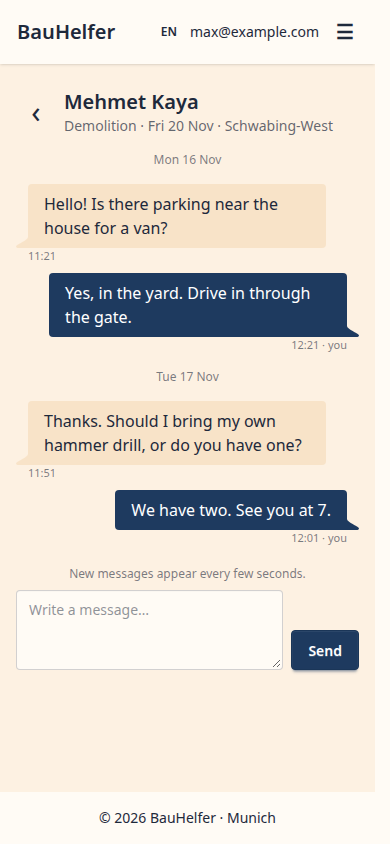
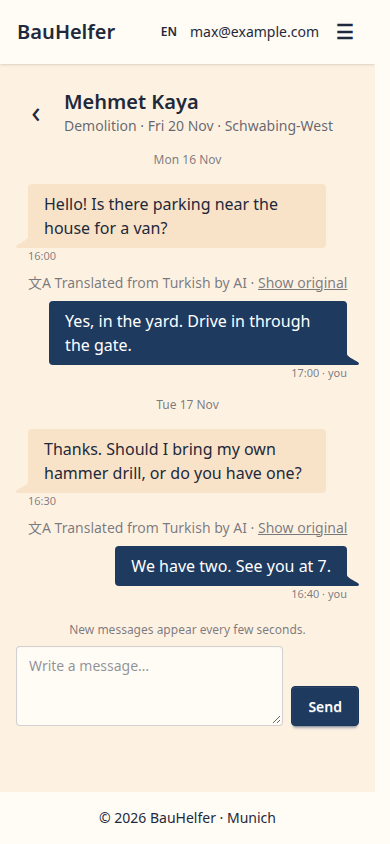
Add the built screenshot of the chat with translations

Changed region(s): [[0.0615, 0.2773, 0.9231, 0.8626], [0.0308, 0.7393, 0.0615, 0.7701]]

diff --git a/tests/e2e/built_screenshots.py b/tests/e2e/built_screenshots.py
@@ -25,6 +25,8 @@ from chat.models import Message
 from jobs.models import Application, Job, JobPhoto
 from jobs.tests.test_views import make_job
 from reviews.models import Review
+from translations.models import Translation
+from translations.services import source_hash
 
 from .helpers import PASSWORD, log_in
 
@@ -246,18 +248,38 @@ def test_save_built_screenshots(page):
 
     # The chat of Max and the accepted Mehmet (#35), the talk of the mockup over two days.
     # Shot first among Max's pages: opening it reads Mehmet's messages, so the unread
-    # badge does not show on the others.
+    # badge does not show on the others. Mehmet writes Turkish; Max reads the English
+    # translations sending saved in the cache (#36), with their labels.
     mehmet_application = Application.objects.get(worker__email="mehmet@example.com")
     mehmet = mehmet_application.worker
-    for minutes_ago, sender, text in (
-        (26 * 60, mehmet, "Hello! Is there parking near the house for a van?"),
-        (25 * 60, employer, "Yes, in the yard. Drive in through the gate."),
-        (90, mehmet, "Thanks. Should I bring my own hammer drill, or do you have one?"),
-        (80, employer, "We have two. See you at 7."),
+    for minutes_ago, sender, text, language, english in (
+        (
+            26 * 60,
+            mehmet,
+            "Merhaba! Evin yakınında minibüs için park yeri var mı?",
+            "tr",
+            "Hello! Is there parking near the house for a van?",
+        ),
+        (25 * 60, employer, "Yes, in the yard. Drive in through the gate.", "en", None),
+        (
+            90,
+            mehmet,
+            "Teşekkürler. Kendi kırıcı matkabımı getireyim mi, yoksa sizde var mı?",
+            "tr",
+            "Thanks. Should I bring my own hammer drill, or do you have one?",
+        ),
+        (80, employer, "We have two. See you at 7.", "en", None),
     ):
         message = Message.objects.create(
-            application=mehmet_application, sender=sender, text=text
+            application=mehmet_application,
+            sender=sender,
+            text=text,
+            original_language=language,
         )
+        if english:
+            Translation.objects.create(
+                source_hash=source_hash(text), target_language="en", text=english
+            )
         Message.objects.filter(pk=message.pk).update(
             created_at=timezone.now() - datetime.timedelta(minutes=minutes_ago)
         )
